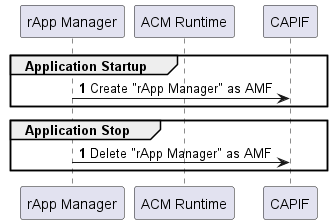
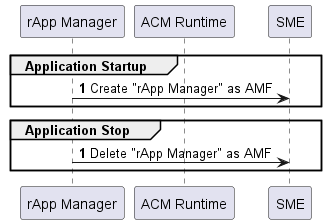
Documentation update for service manager usage
Documentation updated to replace CAPIF with Service Manager

Issue-ID: NONRTRIC-981

diff --git a/docs/overview.rst b/docs/overview.rst
@@ -1,6 +1,6 @@
 .. This work is licensed under a Creative Commons Attribution 4.0 International License.
 .. SPDX-License-Identifier: CC-BY-4.0
-.. Copyright (C) 2023 OpenInfra Foundation Europe. All rights reserved.
+.. Copyright (C) 2023-2024 OpenInfra Foundation Europe. All rights reserved.
 
 rApp Manager
 ~~~~~~~~~~~~
@@ -60,10 +60,12 @@ Information type, and Data producer/consumer information can be provided as part
 
 SME
 ---
+Service Manager is a Go implementation of a service that calls the CAPIF Core function. When publishing a service it creates a Kong route and Kong service.
+
 The CAPIF stands for Common API framework and it was developed by 3GPP to enable a unified Northbound API framework across 3GPP network functions, and to ensure that there is a single and harmonized approach for API development.
 More details about SME can be found in `SME <https://docs.o-ran-sc.org/projects/o-ran-sc-nonrtric-plt-sme/en/latest/overview.html>`_.
 
-It is integrated with rApp manager to enable the rApp to expose/access/discover endpoints.
+Service Manager is integrated with rApp manager to enable the rApp to expose/access/discover endpoints.
 
 Service exposure/access related configurations can be provided as part of rApp package and the package structure can be found in `Sample rApp package structure`_.
 

diff --git a/docs/developer-guide.rst b/docs/developer-guide.rst
@@ -1,6 +1,6 @@
 .. This work is licensed under a Creative Commons Attribution 4.0 International License.
 .. SPDX-License-Identifier: CC-BY-4.0
-.. Copyright (C) 2023 OpenInfra Foundation Europe. All rights reserved.
+.. Copyright (C) 2023-2024 OpenInfra Foundation Europe. All rights reserved.
 
 Developer Guide
 ===============
@@ -28,8 +28,9 @@ There are a few service endpoints that needs to be available to run. These are r
 The following properties have to be modified:
 
 * rappmanager.acm.baseurl=http://policy-clamp-runtime-acm.default:6969/onap/policy/clamp/acm/v2/
-* rappmanager.sme.baseurl=http://capifcore:8090
+* rappmanager.sme.baseurl=http://servicemanager:8095
 * rappmanager.dme.baseurl=http://informationservice:9082
+* rappmanager.rapps.env.smeDiscoveryEndpoint=http://servicemanager:8095/service-apis/v1/allServiceAPIs
 
 
 Start in Docker

diff --git a/README.md b/README.md
@@ -37,9 +37,9 @@ ONAP ACM is used here as a backend of rApp manager to lifecycle manage the deplo
 ONAP ACM related details can be found [here](https://docs.onap.org/projects/onap-policy-parent/en/london/clamp/clamp.html).
 
 
-### Integration of SME (CAPIF)
+### Integration of SME (Service Manager)
 
-This integration is based on the CAPIF function developed as part of O-RAN SC. It is available [here](https://github.com/o-ran-sc/nonrtric-plt-sme/blob/master/capifcore/README.md)
+This integration is based on the Service Manager function developed as part of O-RAN SC. It is available [here](https://github.com/o-ran-sc/nonrtric-plt-sme/blob/master/servicemanager/README.md)
 
 ### Integration of DME (ICS)
 
